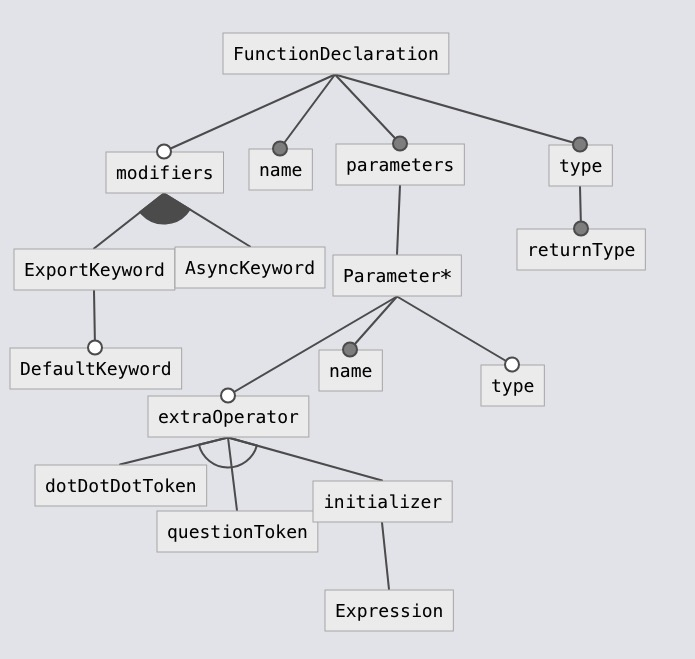
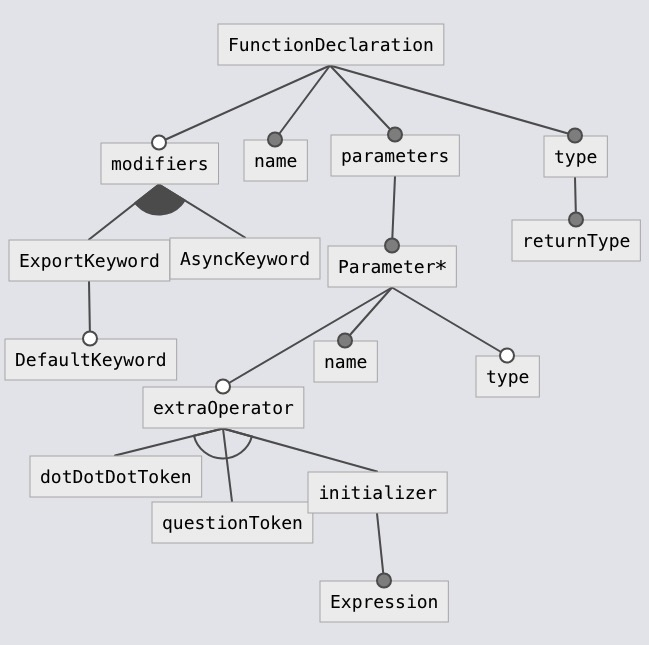
function updated

Changed region(s): [[0.0, 0.031, 1.0, 0.6202], [0.0308, 0.5581, 0.678, 0.9922]]

diff --git a/3groupMembersModel/function/code.ts b/3groupMembersModel/function/code.ts
@@ -22,6 +22,7 @@ export const FunctionDeclaration: FeatureModel = {
       children: [
         {
           name: "Parameter*",
+          parentRelation: "mandatory",
           children: [
             { name: "name", parentRelation: "mandatory" },
             { name: "type", parentRelation: "optional" },
@@ -34,7 +35,9 @@ export const FunctionDeclaration: FeatureModel = {
                 { name: "questionToken" },
                 {
                   name: "initializer",
-                  children: [{ name: "Expression" }],
+                  children: [
+                    { name: "Expression", parentRelation: "mandatory" },
+                  ],
                 },
               ],
             },
